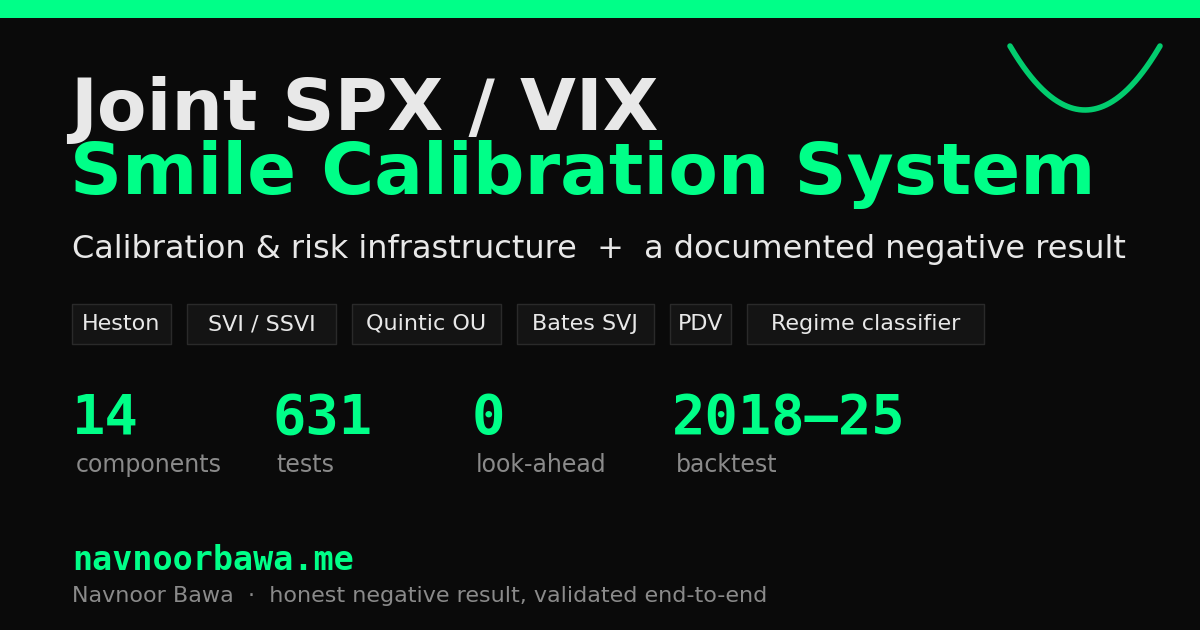
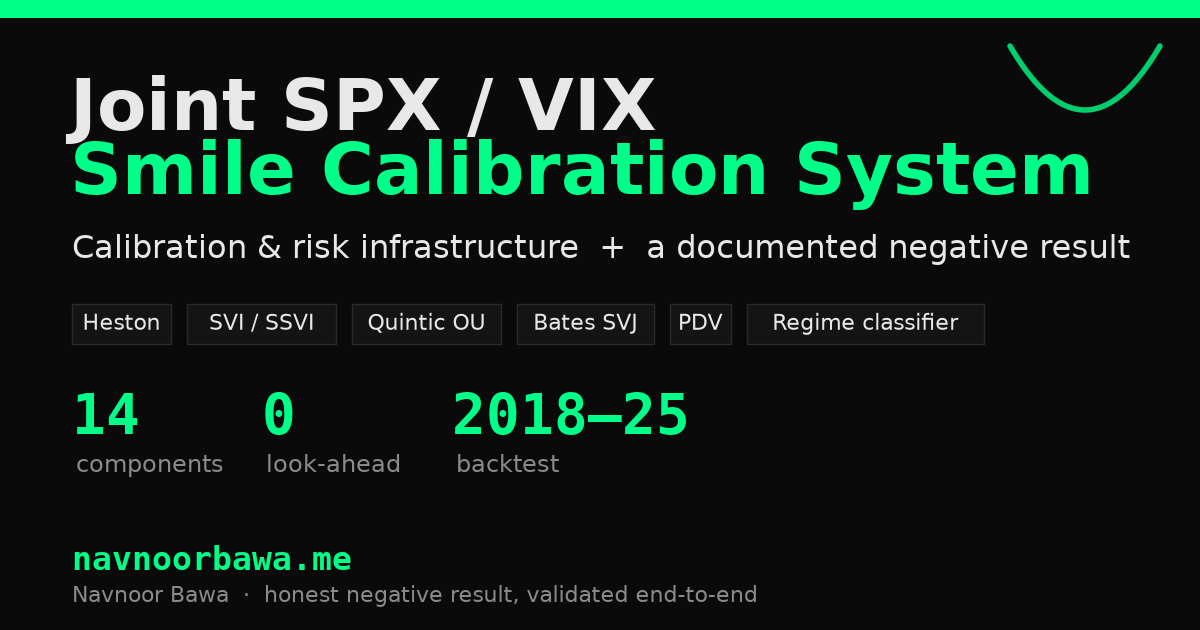
social card and page meta: no hand-typed test count
What was wrong
make_og_image.py hard-coded ('631', 'tests') and the committed og-image.png
(the LinkedIn/Twitter/Substack preview) said "631 tests"; base.html's
og:description, og:image:alt and top banner said "666 tests"; CI runs 642
passed + 24 skipped. Nothing regenerates the PNG, so any count drifts.
make_og_image.py also read sys.argv[1] at import time, so importing it (e.g.
from a test) took the caller's first argument as the output path.

Fix
The card's stat band is STATS = 14 components / 0 look-ahead / 2018-25
backtest (facts that do not move per commit); the count is removed from the
meta and the banner (the earlier commit) and the card is regenerated. The
output path is a build() argument; the CLI behaviour is unchanged.

Test: the card's STATS and every page's meta/banner contain no "N tests"
(fails on the previous card, which had ('631', 'tests')).

Published claims changed: og-image.png "631 tests" -> no count; site meta
and banner "666 tests" -> no count.

Claude-Session: https://claude.ai/code/session_01KtGbaSszHTT6nRGRYkt347

diff --git a/dashboard/make_og_image.py b/dashboard/make_og_image.py
@@ -5,6 +5,12 @@ The base template references https://navnoorbawa.me/og-image.png for LinkedIn /
 Twitter / Substack link previews. This script renders that card in the
 dashboard's dark/green brand so the preview is rich rather than blank.
 
+The card carries only facts that do not drift with each commit. It used to
+show a hand-typed test count ('631 tests') that was already stale against the
+page meta ('666') and CI (642 passed + 24 skipped); a count belongs to CI and
+the README, not to a PNG nobody regenerates. test_dashboard.py checks that the
+card's stats and the page meta carry no test count.
+
 Usage:
     python dashboard/make_og_image.py [OUTPUT_PATH]
     (defaults to <repo>/dashboard/og-image.png; freeze_site.py copies it to the
@@ -25,10 +31,13 @@ MUTED  = "#8a8a8a"
 PANEL  = "#141414"
 
 ROOT = os.path.dirname(os.path.dirname(os.path.abspath(__file__)))
-OUT  = sys.argv[1] if len(sys.argv) > 1 else os.path.join(ROOT, "dashboard", "og-image.png")
+DEFAULT_OUT = os.path.join(ROOT, "dashboard", "og-image.png")
+
+# (value, label) pairs of the stat band — stable facts only (no test count, no correction-round number)
+STATS = [("14", "components"), ("0", "look-ahead"), ("2018–25", "backtest")]
 
 
-def build() -> str:
+def build(out: str = DEFAULT_OUT) -> str:
     # 1200×630 at dpi=100
     fig = plt.figure(figsize=(12.0, 6.3), dpi=100)
     fig.patch.set_facecolor(BG)
@@ -70,14 +79,12 @@ def build() -> str:
         x += w + 16
 
     # Stat band
-    stats = [("14", "components"), ("631", "tests"),
-             ("0", "look-ahead"), ("2018–25", "backtest")]
     x = 72
-    for val, lab in stats:
+    for val, lab in STATS:
         ax.text(x, 196, val, color=GREEN, fontsize=40, fontweight="bold",
                 family="DejaVu Sans Mono")
         ax.text(x + 4, 158, lab, color=MUTED, fontsize=17, family="DejaVu Sans")
-        x += 200 if val != "2018–25" else 0
+        x += 80 + max(33 * len(val), 11 * len(lab))
 
     # Footer
     ax.text(72, 60, "navnoorbawa.me", color=GREEN, fontsize=24,
@@ -85,11 +92,11 @@ def build() -> str:
     ax.text(72, 28, "Navnoor Bawa  ·  honest negative result, validated end-to-end",
             color=MUTED, fontsize=16, family="DejaVu Sans")
 
-    fig.savefig(OUT, facecolor=BG, dpi=100)
+    fig.savefig(out, facecolor=BG, dpi=100)
     plt.close(fig)
-    return OUT
+    return out
 
 
 if __name__ == "__main__":
-    path = build()
+    path = build(sys.argv[1] if len(sys.argv) > 1 else DEFAULT_OUT)
     print(f"Wrote og-image.png -> {path}")

diff --git a/joint_vol_calibration/tests/test_dashboard.py b/joint_vol_calibration/tests/test_dashboard.py
@@ -844,6 +844,8 @@ def test_page_charts_wait_for_chartjs(pages):
 
 def test_social_meta_and_card_carry_no_test_count(pages):
     """The card said '631 tests', the meta '666', CI '642 passed, 24 skipped'."""
+    og = _load("og_card_under_test", "dashboard/make_og_image.py")
+    assert not any(re.search(r"\btests?\b", label) for _, label in og.STATS)
     for route, html in pages.items():
         assert not re.search(r"\d+\s+tests", html), route
         title = re.search(r'<meta property="og:title"\s+content="([^"]+)"', html).group(1)
